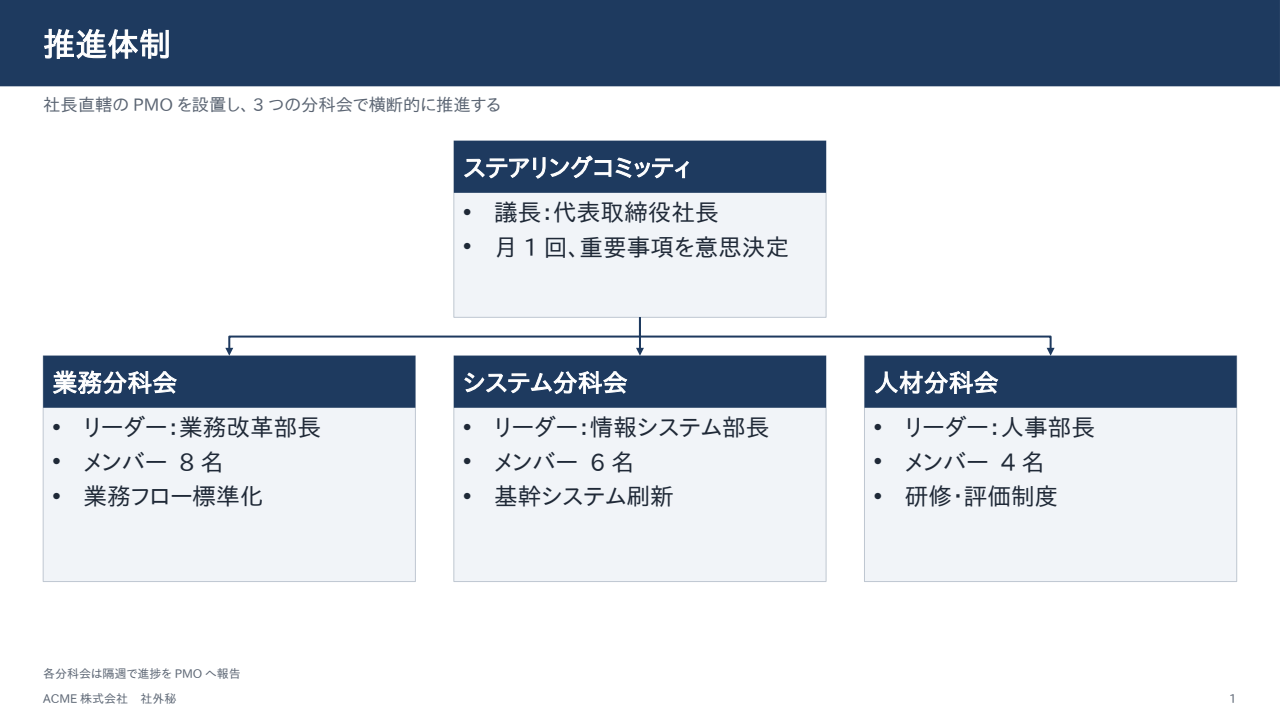
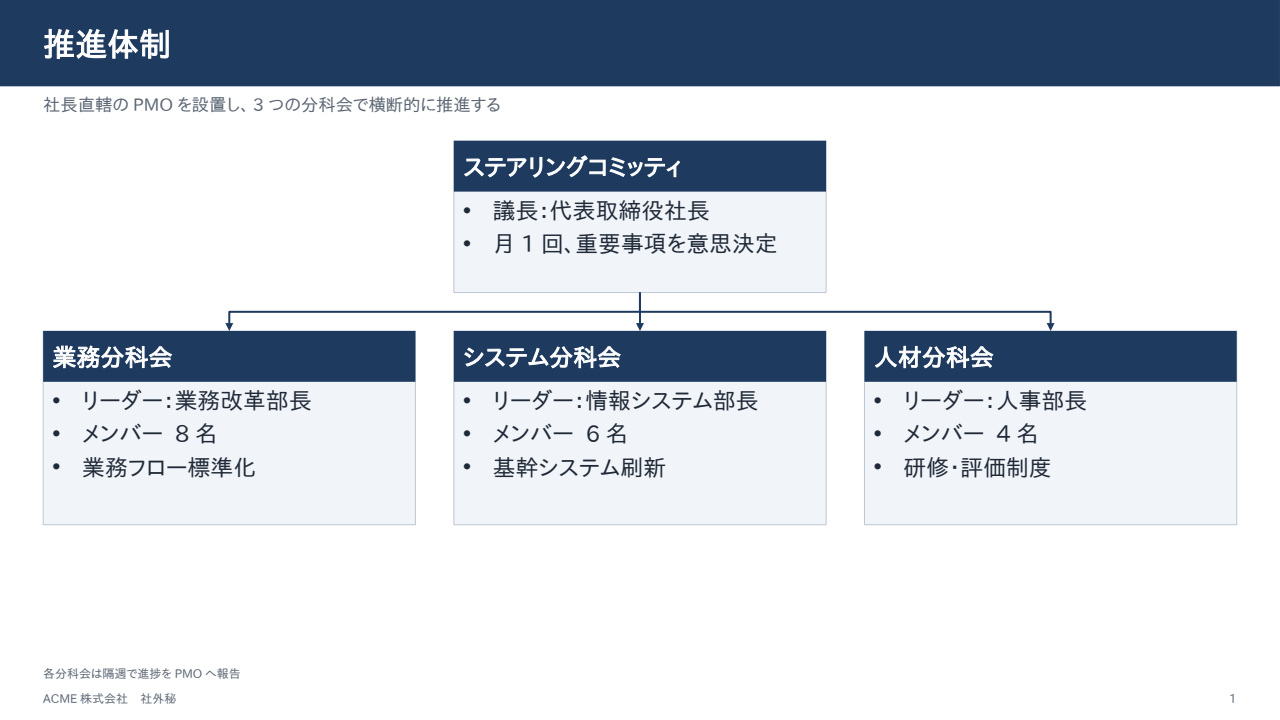
Gallery after wave 2 (cards hug content, examples/16)

Changed region(s): [[0.0312, 0.4278, 0.9688, 0.7028], [0.375, 0.2139, 0.625, 0.3667]]

diff --git a/README.md b/README.md
@@ -50,7 +50,7 @@ slidemark skill install      # cài skill cho Claude Code
 ## Ảnh slide mẫu (cập nhật hằng ngày)
 
 <!-- gallery:start -->
-Cập nhật: 2026-10-05 · commit `101bdbf` · tạo tự động bởi `scripts/gallery.py`.
+Cập nhật: 2026-10-05 · commit `01addba` · tạo tự động bởi `scripts/gallery.py`.
 
 ### Cơ bản: tiêu đề, danh sách, box, bảng, biểu đồ
 
@@ -173,6 +173,21 @@ Nguồn: [`examples/15-html-mixed.md`](examples/15-html-mixed.md)
 ![15-html-mixed slide 1](docs/gallery/15-html-mixed/slide-01.png)
 ![15-html-mixed slide 2](docs/gallery/15-html-mixed/slide-02.png)
 ![15-html-mixed slide 3](docs/gallery/15-html-mixed/slide-03.png)
+
+### 16-jp-strategy
+
+Nguồn: [`examples/16-jp-strategy.md`](examples/16-jp-strategy.md)
+
+![16-jp-strategy slide 1](docs/gallery/16-jp-strategy/slide-01.png)
+![16-jp-strategy slide 2](docs/gallery/16-jp-strategy/slide-02.png)
+![16-jp-strategy slide 3](docs/gallery/16-jp-strategy/slide-03.png)
+![16-jp-strategy slide 4](docs/gallery/16-jp-strategy/slide-04.png)
+![16-jp-strategy slide 5](docs/gallery/16-jp-strategy/slide-05.png)
+![16-jp-strategy slide 6](docs/gallery/16-jp-strategy/slide-06.png)
+![16-jp-strategy slide 7](docs/gallery/16-jp-strategy/slide-07.png)
+![16-jp-strategy slide 8](docs/gallery/16-jp-strategy/slide-08.png)
+![16-jp-strategy slide 9](docs/gallery/16-jp-strategy/slide-09.png)
+![16-jp-strategy slide 10](docs/gallery/16-jp-strategy/slide-10.png)
 <!-- gallery:end -->
 
 ## Tài liệu
